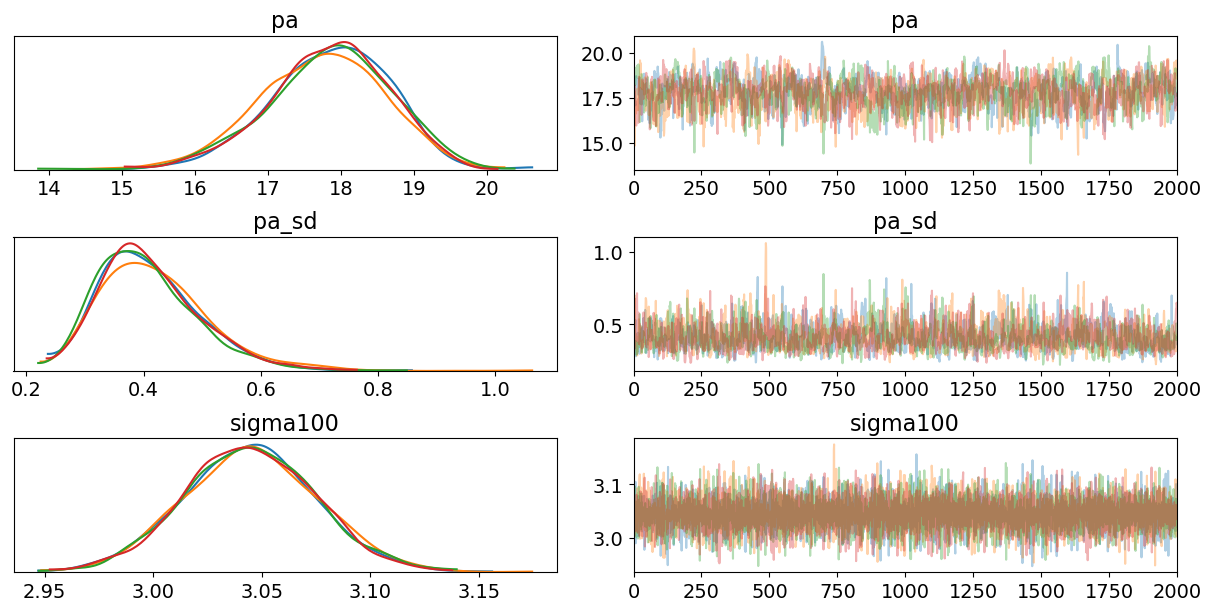
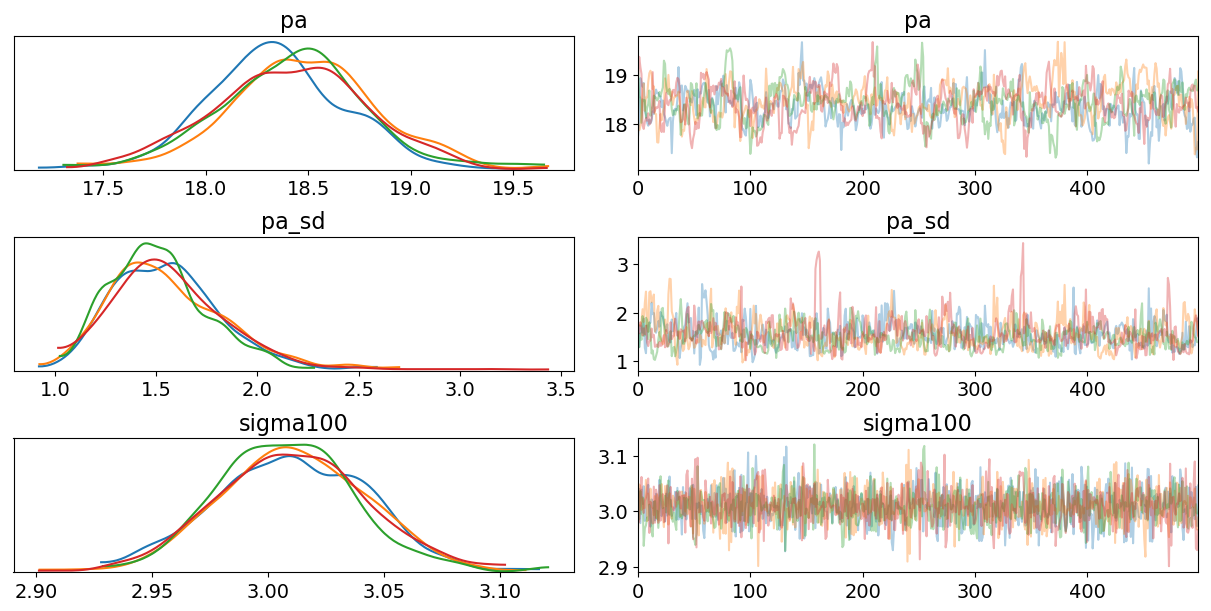
changes toy model initialization strategy, removing zero-mass errors

diff --git a/super_simple/many_galaxies.py b/super_simple/many_galaxies.py
@@ -19,9 +19,9 @@ parser = argparse.ArgumentParser(
 )
 parser.add_argument('--ngals', '-n', metavar='N', default=25,
                     type=int, help='Number of galaxies in sample')
-parser.add_argument('--mu', metavar='N', default=15,
+parser.add_argument('--mu', metavar='N', default=20,
                     type=str, help='Global mean pitch angle')
-parser.add_argument('--sd', metavar='N', default=10,
+parser.add_argument('--sd', metavar='N', default=5,
                     type=str, help='Inter-galaxy pitch angle std')
 parser.add_argument('--sd2', metavar='N', default=10,
                     type=str, help='Intra-galaxy pitch angle std')
@@ -93,7 +93,7 @@ with pm.Model() as model:
     # Global mean pitch angle
     global_pa_mu = pm.Uniform(
         'pa',
-        lower=0.01, upper=60,
+        lower=0.01, upper=90,
         testval=10
     )
 
@@ -145,8 +145,8 @@ with model:
     pm.Potential(
         'gal_pa_mu_bound',
         (
-            tt.switch(tt.all(gal_pa_mu > 0.1), 0, -np.inf)
-            + tt.switch(tt.all(gal_pa_mu < 70), 0, -np.inf)
+            tt.switch(tt.all(gal_pa_mu > 0), 0, -np.inf)
+            + tt.switch(tt.all(gal_pa_mu < 90), 0, -np.inf)
         )
     )
 
@@ -162,17 +162,17 @@ with model:
     pm.Potential(
         'arm_pa_mu_bound',
         (
-            tt.switch(tt.all(arm_pa > 0.1), 0, -np.inf)
-            + tt.switch(tt.all(arm_pa < 70), 0, -np.inf)
+            tt.switch(tt.all(arm_pa > 0), 0, -np.inf)
+            + tt.switch(tt.all(arm_pa < 90), 0, -np.inf)
         )
     )
 
     # convert to a gradient for a linear fit
-    arm_b = pm.Deterministic('b', tt.tan(np.pi / 180 * arm_pa))
+    arm_b = tt.tan(np.pi / 180 * arm_pa)
     arm_r = tt.exp(arm_b[arm_idx] * T + arm_c[arm_idx])
     pm.Potential(
         'arm_r_bound',
-        tt.switch(tt.all(arm_r < 1E3), 0, -np.inf)
+        tt.switch(tt.all(arm_r < 1E4), 0, -np.inf)
     )
     # likelihood function
     likelihood = pm.Normal(
@@ -189,11 +189,8 @@ with model:
 
 # Sampling
 with model:
-    trace = pm.sample(
-        1000,
-        tune=1000,
-        target_accept=0.95,
-    )
+    trace = pm.sample(1000, tune=1000, target_accept=0.9,
+                      init='advi+adapt_diag')
 
     # Save the model
     try:
@@ -206,11 +203,13 @@ with model:
     except ImportError:
         pass
 
+print('Trace Summary:')
+print(pm.summary(trace).round(2).sort_values(by='Rhat', ascending=False))
+
 # Save a traceplot
 pm.traceplot(
     trace,
-    var_names=('pa', 'pa_sd', 'sigma'),
-    combined=True,
+    var_names=('pa', 'pa_sd', 'gal_pa_sd', 'sigma'),
     lines=(
         ('pa', {}, BASE_PA),
         ('pa_sd', {}, INTER_GAL_SD),
@@ -224,7 +223,7 @@ plt.savefig(
 plt.close()
 
 # Save a posterior plot
-pm.plot_posterior(trace, var_names=('pa', 'pa_sd', 'sigma'))
+pm.plot_posterior(trace, var_names=('pa', 'pa_sd', 'gal_pa_sd', 'sigma'))
 plt.savefig(
     os.path.join(loc, 'plots/many_galaxies_posterior.png'),
     bbox_inches='tight'
@@ -254,7 +253,7 @@ plt.savefig(
 # make a plot showing arm predictions
 with model:
     param_predictions = pm.sample_posterior_predictive(
-        trace, samples=30,
+        trace, samples=50,
         vars=(arm_pa, arm_c)
     )
 pred_pa = param_predictions['arm_pa']
@@ -263,28 +262,28 @@ pred_c = param_predictions['c']
 f, axs_grid = plt.subplots(
     ncols=s, nrows=s,
     sharex=True, sharey=True,
-    figsize=(8, 8), dpi=100
+    figsize=(16, 16), dpi=100
 )
 axs = [j for i in axs_grid for j in i]
+for j in range(sum(gal_n_arms)):
+    t = T[arm_idx == j]
+    r = R[arm_idx == j]
+    axs[gal_arm_map[j]].plot(
+        *xy_from_r_theta(r, t),
+        'k.',
+    )
 for i in range(len(param_predictions)):
     arm_pa = pred_pa[i]
     arm_c = pred_c[i]
     arm_b = np.tan(np.deg2rad(arm_pa))
     for j in range(len(arm_pa)):
         t = T[arm_idx == j]
-        r = R[arm_idx == j]
         r_pred = np.exp(arm_b[j] * t + arm_c[j])
-        axs[gal_arm_map[j]].plot(
-            *xy_from_r_theta(r, t),
-            'k--',
-            alpha=0.5,
-            linewidth=1,
-        )
         axs[gal_arm_map[j]].plot(
             *xy_from_r_theta(r_pred, t),
             c='C{}'.format(j % 10),
-            alpha=0.5,
-            linewidth=3,
+            alpha=0.7,
+            linewidth=1,
         )
 
 plt.savefig(

diff --git a/super_simple/one_galaxy.py b/super_simple/one_galaxy.py
@@ -45,8 +45,13 @@ print(gal_separate_fit_params.describe())
 with pm.Model() as model:
     # model r = a * exp(tan(phi) * t) as log(r) = b * t + c,
     # but have a uniform prior on phi rather than the gradient!
-    gal_pa_mu = pm.Normal('pa', mu=15, sd=1)  # pm.Uniform('pa', lower=0.00, upper=1, testval=20 / 90) * 90
-    gal_pa_sd = pm.HalfCauchy('pa_sd', beta=1, testval=0.1)
+    gal_pa_mu = pm.TruncatedNormal(
+        'pa',
+        mu=15, sd=10,
+        lower=0, upper=45,
+        testval=10,
+    )
+    gal_pa_sd = pm.HalfCauchy('pa_sd', beta=10, testval=0.1)
     arm_c = pm.Uniform(
         'c',
         lower=-1, upper=0,
@@ -99,7 +104,7 @@ with model:
     print(model.check_test_point())
 
 with model:
-    trace = pm.sample(2000, tune=2000, target_accept=0.95)
+    trace = pm.sample(500, tune=500, target_accept=0.95, init='advi+adapt_diag')
 
 # display the total number and percentage of divergent
 divergent = trace['diverging']
